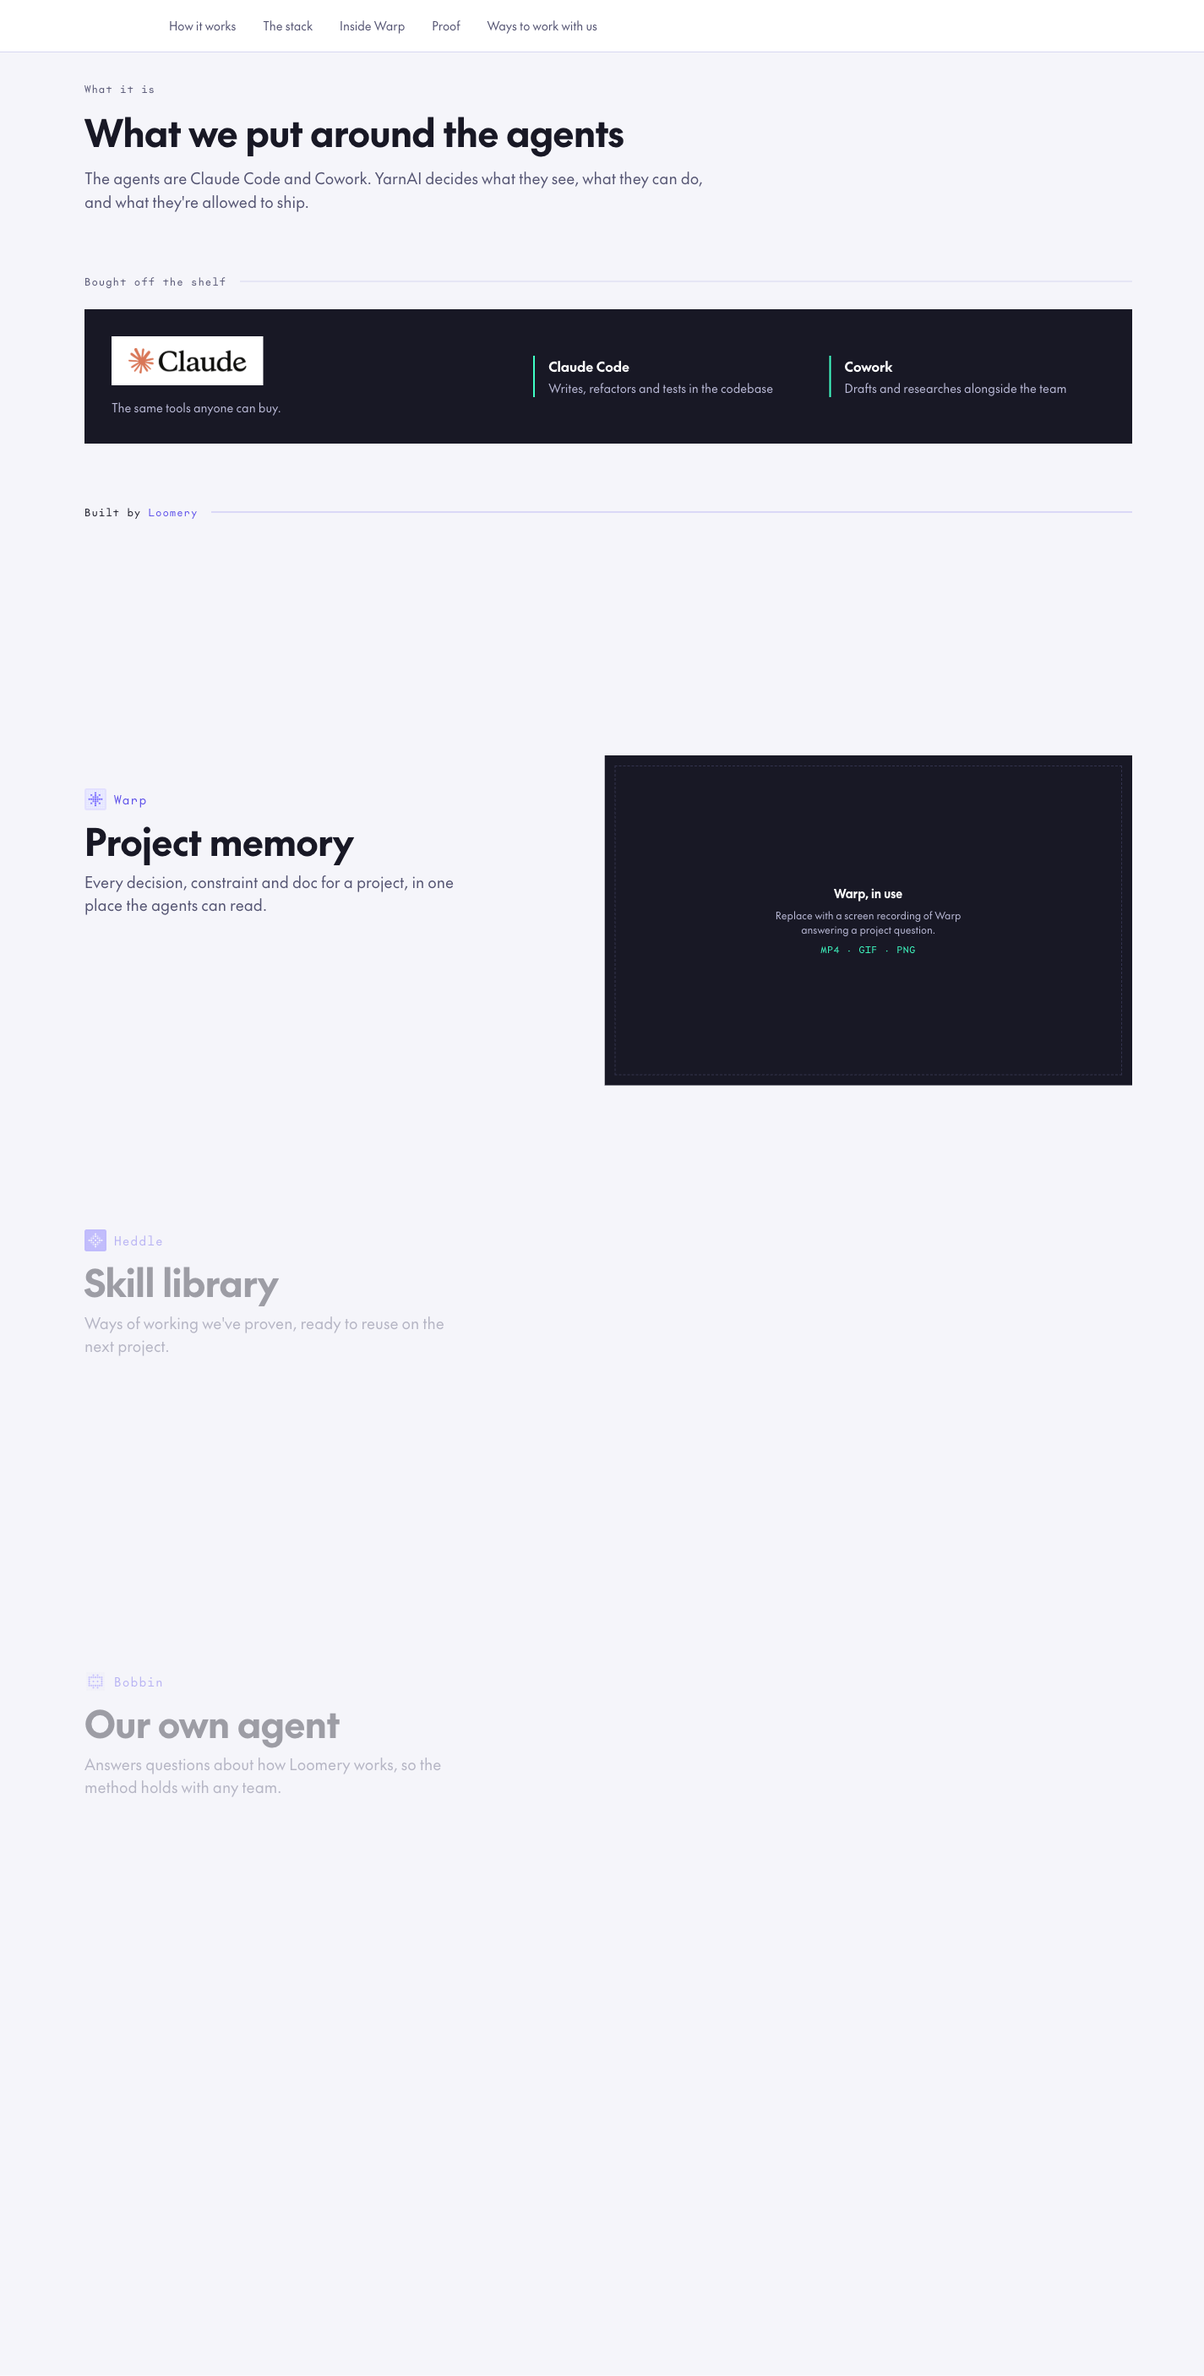
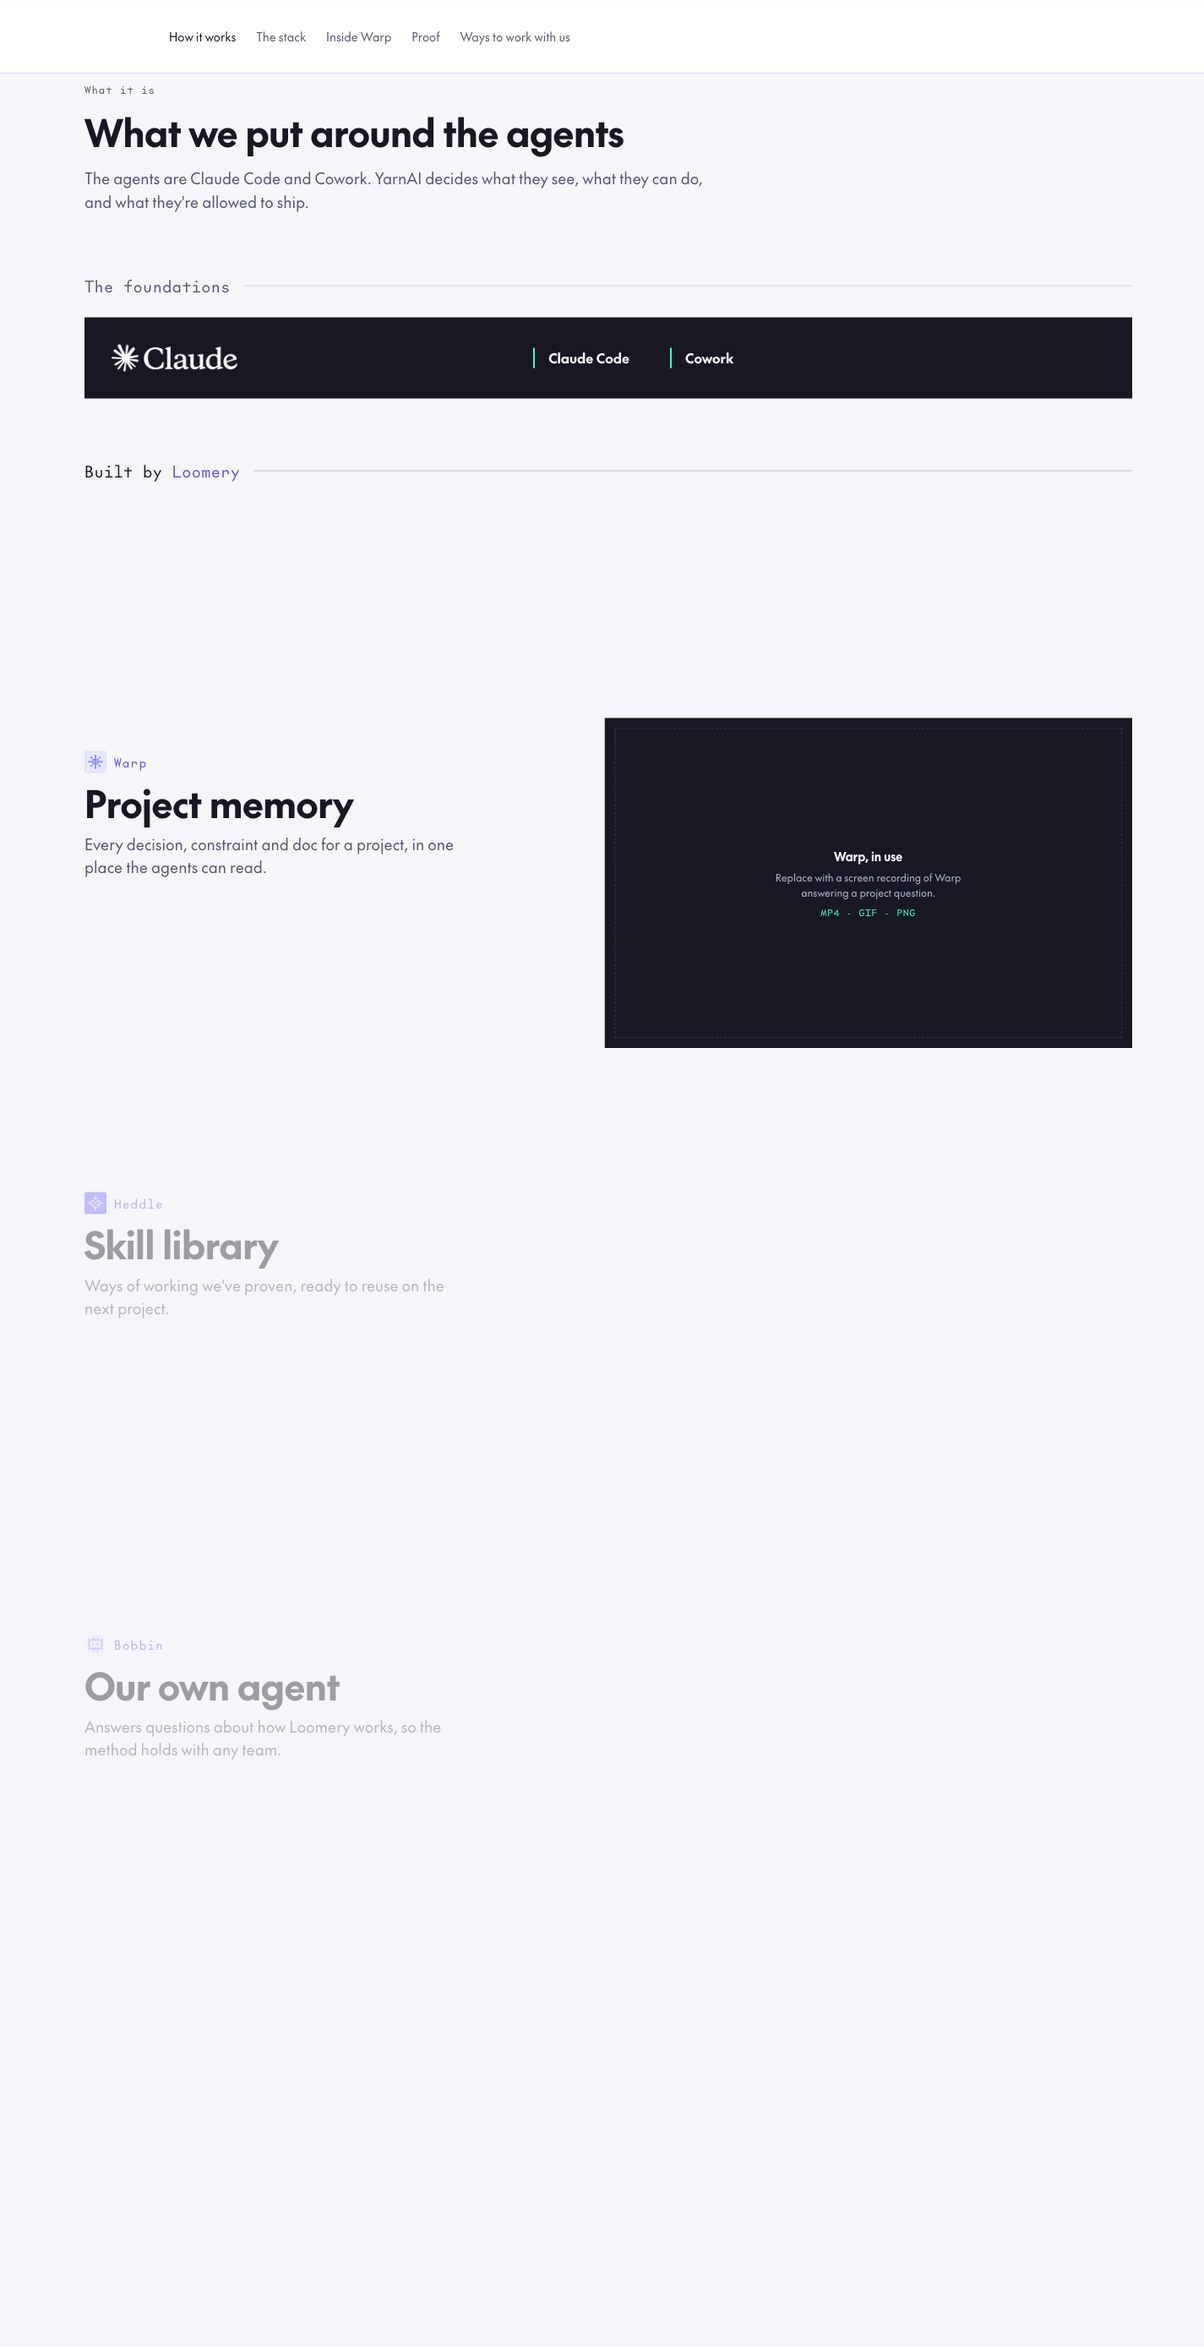
Agents on the trailing edge, paired lifecycle labels, nav alignment
Across the lifecycle
- The purple agent strip moved from the bottom of each stage to its
  trailing edge, with a sparkle in it. Along the bottom it read as a
  progress bar; on the trailing edge it reads as something added to the
  stage. 22px is reserved inside every bar so labels cannot run under
  it - "Discover" was being clipped.
- The live bar carries a label that tracks the highlighted step, pairing
  with "A normal project" on the reference strip above it.
- The stats sit under a hairline rule attached to the diagram rather
  than floating in whitespace below it.

Navigation
- The sticky sub-nav matches the main nav exactly: 85px via a --nav-h
  token so they cannot drift, same 14px links, same 24px gap.

What it is
- "Bought off the shelf" -> "The foundations", at 18px along with the
  other two band labels.
- The Claude wordmark is reversed out rather than sat on a light plate.
- Dropped the "same tools anyone can buy" note and both agent role
  descriptions.
- Trimmed the scroll runway above the first product; 12vh of empty space
  under the band label read as a mistake.

Elsewhere
- "What you get" out of all caps.
- Removed the team section's closing note.
- Corrected the type comment in tokens.css, which still claimed Jost was
  standing in for The Future.

diff --git a/styles.css b/styles.css
@@ -94,7 +94,8 @@ a { color: inherit; }
 /* ============================================================
    NAV — matches the live loomery.com header
    ============================================================ */
-.nav { display: flex; align-items: center; justify-content: space-between; padding: 20px var(--gutter); background: var(--surface-page); }
+.nav { display: flex; align-items: center; justify-content: space-between;
+  height: var(--nav-h); padding: 0 var(--gutter); background: var(--surface-page); }
 .nav__mark { font-size: 22px; font-weight: 600; letter-spacing: -0.02em; text-decoration: none; }
 .nav__right { display: flex; align-items: center; gap: var(--s-4); }
 .nav__link { font-size: var(--type-small); text-decoration: none; border-bottom: 1px solid currentColor; padding-bottom: 2px; }
@@ -119,7 +120,8 @@ a { color: inherit; }
    SUB-NAV — sticky
    ============================================================ */
 .subnav { position: sticky; top: 0; z-index: 40; background: var(--surface-page); border-bottom: 1px solid var(--border-subtle); }
-.subnav__inner { max-width: var(--content); margin: 0 auto; display: flex; gap: var(--s-5); padding: 20px var(--gutter); flex-wrap: wrap; }
+.subnav__inner { max-width: var(--content); margin: 0 auto; display: flex; align-items: center;
+  height: var(--nav-h); gap: var(--s-4); padding: 0 var(--gutter); flex-wrap: wrap; }
 .subnav__link { font-size: var(--type-small); text-decoration: none; color: var(--text-secondary); transition: color var(--dur-fast) var(--ease-out); }
 .subnav__link:hover, .subnav__link.is-current { color: var(--text-primary); }
 
@@ -228,12 +230,14 @@ a { color: inherit; }
    ============================================================ */
 .agents { display: grid; grid-template-columns: minmax(240px, 0.8fr) 1.2fr; gap: var(--s-6);
   background: var(--surface-inverse); color: var(--text-on-inverse); padding: var(--s-5); align-items: center; }
-.agents__brand { display: flex; flex-direction: column; gap: var(--s-3); }
-.agents__plate { background: var(--surface-page); padding: 14px 20px; display: inline-flex; align-self: flex-start; }
-.agents__plate img { width: auto; height: 30px; max-width: 170px; object-fit: contain; display: block; }
+.agents__brand { display: flex; align-items: center; }
+/* the wordmark ships black; reversed out it reads on the inverse panel */
+.agents__plate { display: inline-flex; align-self: flex-start; }
+.agents__plate img { width: auto; height: 32px; max-width: 180px; object-fit: contain;
+  display: block; filter: brightness(0) invert(1); }
 .agents__note { font-size: var(--type-small); color: var(--text-on-inverse-muted); }
-.agents__list { display: grid; grid-template-columns: 1fr 1fr; gap: var(--s-4); }
-.agent { border-left: 2px solid var(--state-positive); padding-left: var(--s-3); display: flex; flex-direction: column; gap: 4px; }
+.agents__list { display: flex; gap: var(--s-6); flex-wrap: wrap; align-items: center; }
+.agent { border-left: 2px solid var(--state-positive); padding-left: var(--s-3); }
 .agent__name { font-size: var(--type-base); font-weight: 600; }
 .agent__role { font-size: var(--type-small); color: var(--text-on-inverse-muted); }
 @media (max-width: 900px) { .agents, .agents__list { grid-template-columns: 1fr; } }
@@ -245,7 +249,7 @@ a { color: inherit; }
    step, each setting opacity on the three panes.
    ============================================================ */
 .pscroll { display: grid; grid-template-columns: 1fr 1.15fr; gap: var(--s-7); margin-top: var(--s-4); align-items: stretch; }
-.pscroll__steps { display: flex; flex-direction: column; padding: 12vh 0; }
+.pscroll__steps { display: flex; flex-direction: column; padding: 7vh 0 14vh; }
 .pstep { min-height: 58vh; justify-content: center; padding: var(--s-6) 0; display: flex; flex-direction: column; gap: 10px; max-width: 460px;
   opacity: 0.4; transition: opacity var(--dur-base) var(--ease-out); }
 .pscroll[data-product="warp"]   .pstep[data-product="warp"],
@@ -275,7 +279,7 @@ a { color: inherit; }
 }
 
 .stack-divider { margin: var(--s-7) 0 var(--s-4); display: flex; align-items: center; gap: var(--s-3); }
-.stack-divider__label { font-family: var(--font-mono); font-size: var(--type-label); letter-spacing: 0.08em; color: var(--text-secondary); white-space: nowrap; }
+.stack-divider__label { font-family: var(--font-mono); font-size: 18px; letter-spacing: 0.02em; color: var(--text-secondary); white-space: nowrap; }
 .stack-divider__rule { height: 1px; background: var(--border-subtle); flex: 1; }
 .stack-divider__label b { color: var(--text-product); font-weight: 500; }
 .stack-divider--ours .stack-divider__label { color: var(--text-primary); }
@@ -290,7 +294,7 @@ a { color: inherit; }
    WARP DEEP DIVE — the cycle
    ============================================================ */
 .cycle { margin-top: var(--s-6); display: flex; flex-direction: column; gap: 10px; }
-.cycle__label { font-family: var(--font-mono); font-size: var(--type-label); letter-spacing: 0.11em; text-transform: uppercase; color: var(--text-secondary); }
+.cycle__label { font-family: var(--font-mono); font-size: var(--type-label); letter-spacing: 0.08em; color: var(--text-secondary); }
 .chips { display: flex; gap: 8px; flex-wrap: wrap; }
 .chip { font-size: 13px; padding: 8px 14px; border: 1px solid var(--border-subtle); color: var(--text-secondary); }
 .cycle__connector { font-size: 13px; color: var(--text-secondary); padding: 6px 0; }
@@ -486,15 +490,20 @@ a { color: inherit; }
    bar. Overlaying the two failed: once the stages shrink, their original edges
    all pile up inside the Reclaimed block, miles from the bar they belong to.
    Stacked, the comparison is a straight read down the page. */
-.lref__label { font-family:var(--font-mono); font-size:11px; letter-spacing:.08em;
+.lref__label, .lc__now { font-family:var(--font-mono); font-size:11px; letter-spacing:.08em;
   color:var(--text-secondary); margin:0 0 6px; }
+.lc__now { color:var(--text-primary); margin-top:var(--s-3); }
 .lref { display:flex; gap:6px; height:14px; margin-bottom:10px; }
 .lref__b { background:var(--border-interactive); opacity:0.45; }
 .lbar { display:flex; gap:6px; height:74px; align-items:stretch; }
 .lb { position:relative; min-width:0; background:var(--surface-inverse); color:var(--text-on-inverse);
       display:flex; align-items:center; justify-content:center; overflow:hidden; }
 .lb__l { font-size:12px; white-space:nowrap; padding:0 6px; }
-.lb__a { position:absolute; left:0; right:0; bottom:0; height:16px; background:var(--product-500); }
+/* The purple is agents joining a stage. On the trailing edge it reads as
+   something added to the stage; along the bottom it read as a progress bar. */
+.lb__a { position:absolute; top:0; bottom:0; right:0; width:22px; background:var(--product-500);
+  display:flex; align-items:center; justify-content:center; }
+.lb__a svg { width:12px; height:12px; }
 .lb--gain { background:var(--surface-gain-tint); border:1px dashed var(--state-positive); color:var(--text-secondary); }
 .lrow-label { font-family:var(--font-mono); font-size:11px; letter-spacing:.11em; text-transform:uppercase; color:var(--text-secondary); margin:0 0 8px; }
 
@@ -519,15 +528,17 @@ a { color: inherit; }
 @keyframes tick-run { from { transform:scaleX(0); } to { transform:scaleX(1); } }
 
 /* bar widths per step */
+/* reserve the agent strip so labels never run under it */
+.lc .lb:not(.lb--gain) { padding-right:22px; }
 .lc .lb { width:var(--a); transition:width var(--dur-slow) var(--ease-in-out), opacity var(--dur-base) var(--ease-out); }
 .lc[data-step="1"] .lb--gain { opacity:0; }
 .lc[data-step="2"] .lb { width:var(--b); }
 .lc[data-step="3"] .lb { width:var(--c); }
 .lc[data-step="4"] .lb { width:var(--d); }
-.lc .lb__a { transform:translateY(100%); transition:transform var(--dur-base) var(--ease-out); }
+.lc .lb__a { transform:translateX(100%); transition:transform var(--dur-base) var(--ease-out); }
 .lc[data-step="2"] .lb--early .lb__a,
 .lc[data-step="3"] .lb--early .lb__a, .lc[data-step="3"] .lb--build .lb__a,
-.lc[data-step="4"] .lb__a { transform:translateY(0); }
+.lc[data-step="4"] .lb__a { transform:translateX(0); }
 
 /* nobody asked for this transition, so it has to explain itself: lead with
    Build, the bottleneck, and let the rest follow as consequence */
@@ -544,11 +555,12 @@ a { color: inherit; }
 .lc.is-rewind .lb, .lc.is-rewind .lb__a { transition-delay:0ms; transition-duration:1150ms; }
 
 /* the numbers are the payoff, so they sit under the diagram with real air */
-.lc__readout { margin-top:var(--s-7); gap:var(--s-7); }
+.lc__readout { margin-top:var(--s-5); padding-top:var(--s-4);
+  border-top:1px solid var(--border-subtle); gap:var(--s-7); }
 .lc__readout .ba-metric__value { font-size:46px; letter-spacing:-0.02em; }
 .lc__readout .ba-metric__label { font-size:var(--type-small); margin-top:4px; }
 .lc__readout .ba-metric { min-width:180px; }
-.lc__cap { margin-top:var(--s-4); font-size:14px; color:var(--text-secondary); min-height:44px; max-width:720px;
+.lc__cap { margin-top:var(--s-3); font-size:14px; color:var(--text-secondary); min-height:44px; max-width:720px;
   transition:opacity 280ms var(--ease-out); }
 .lc__cap.is-swapping { opacity:0; transition-duration:150ms; }
 .lc__cap b { color:var(--text-primary); font-weight:600; }

diff --git a/index.html b/index.html
@@ -147,13 +147,14 @@
       <div class="lbar-wrap">
         <p class="lref__label">A normal project</p>
         <div class="lref" aria-hidden="true"><span class="lref__b" style="width:8.87%"></span><span class="lref__b" style="width:13.71%"></span><span class="lref__b" style="width:41.94%"></span><span class="lref__b" style="width:12.1%"></span><span class="lref__b" style="width:9.68%"></span><span class="lref__b" style="width:10.48%"></span></div>
+        <p class="lc__now" id="cycleNow">A normal project</p>
         <div class="lbar">
-          <div class="lb lb--early" style="--a:8.87%;--b:6.61%;--c:6.61%;--d:6.61%"><span class="lb__l">Discover</span><span class="lb__a"></span></div>
-          <div class="lb lb--early" style="--a:13.71%;--b:7.26%;--c:7.26%;--d:7.26%"><span class="lb__l">Design</span><span class="lb__a"></span></div>
-          <div class="lb lb--build" style="--a:41.94%;--b:41.94%;--c:11.29%;--d:11.29%"><span class="lb__l">Build</span><span class="lb__a"></span></div>
-          <div class="lb" style="--a:12.1%;--b:12.1%;--c:12.1%;--d:8.47%"><span class="lb__l">Test</span><span class="lb__a"></span></div>
-          <div class="lb" style="--a:9.68%;--b:9.68%;--c:9.68%;--d:7.74%"><span class="lb__l">Ship</span><span class="lb__a"></span></div>
-          <div class="lb" style="--a:10.48%;--b:10.48%;--c:10.48%;--d:8.06%"><span class="lb__l">Learn</span><span class="lb__a"></span></div>
+          <div class="lb lb--early" style="--a:8.87%;--b:6.61%;--c:6.61%;--d:6.61%"><span class="lb__l">Discover</span><span class="lb__a"><svg viewBox="0 0 12 12" aria-hidden="true"><path d="M6 0c.5 3.3 2.7 5.5 6 6-3.3.5-5.5 2.7-6 6-.5-3.3-2.7-5.5-6-6 3.3-.5 5.5-2.7 6-6Z" fill="#fff"/></svg></span></div>
+          <div class="lb lb--early" style="--a:13.71%;--b:7.26%;--c:7.26%;--d:7.26%"><span class="lb__l">Design</span><span class="lb__a"><svg viewBox="0 0 12 12" aria-hidden="true"><path d="M6 0c.5 3.3 2.7 5.5 6 6-3.3.5-5.5 2.7-6 6-.5-3.3-2.7-5.5-6-6 3.3-.5 5.5-2.7 6-6Z" fill="#fff"/></svg></span></div>
+          <div class="lb lb--build" style="--a:41.94%;--b:41.94%;--c:11.29%;--d:11.29%"><span class="lb__l">Build</span><span class="lb__a"><svg viewBox="0 0 12 12" aria-hidden="true"><path d="M6 0c.5 3.3 2.7 5.5 6 6-3.3.5-5.5 2.7-6 6-.5-3.3-2.7-5.5-6-6 3.3-.5 5.5-2.7 6-6Z" fill="#fff"/></svg></span></div>
+          <div class="lb" style="--a:12.1%;--b:12.1%;--c:12.1%;--d:8.47%"><span class="lb__l">Test</span><span class="lb__a"><svg viewBox="0 0 12 12" aria-hidden="true"><path d="M6 0c.5 3.3 2.7 5.5 6 6-3.3.5-5.5 2.7-6 6-.5-3.3-2.7-5.5-6-6 3.3-.5 5.5-2.7 6-6Z" fill="#fff"/></svg></span></div>
+          <div class="lb" style="--a:9.68%;--b:9.68%;--c:9.68%;--d:7.74%"><span class="lb__l">Ship</span><span class="lb__a"><svg viewBox="0 0 12 12" aria-hidden="true"><path d="M6 0c.5 3.3 2.7 5.5 6 6-3.3.5-5.5 2.7-6 6-.5-3.3-2.7-5.5-6-6 3.3-.5 5.5-2.7 6-6Z" fill="#fff"/></svg></span></div>
+          <div class="lb" style="--a:10.48%;--b:10.48%;--c:10.48%;--d:8.06%"><span class="lb__l">Learn</span><span class="lb__a"><svg viewBox="0 0 12 12" aria-hidden="true"><path d="M6 0c.5 3.3 2.7 5.5 6 6-3.3.5-5.5 2.7-6 6-.5-3.3-2.7-5.5-6-6 3.3-.5 5.5-2.7 6-6Z" fill="#fff"/></svg></span></div>
         <div class="lb lb--gain" style="--a:0%;--b:8.7%;--c:39%;--d:46.69%"><span class="lb__l">Reclaimed</span></div>
         </div>
       </div>
@@ -176,22 +177,19 @@
     <p class="lead reveal" data-d="2">The agents are Claude Code and Cowork. YarnAI decides what they see, what they can do, and what they're allowed to ship.</p>
 
     <div class="stack-divider reveal">
-      <span class="stack-divider__label">Bought off the shelf</span>
+      <span class="stack-divider__label">The foundations</span>
       <span class="stack-divider__rule"></span>
     </div>
     <div class="agents reveal">
       <div class="agents__brand">
         <span class="agents__plate"><img src="images/logo-claude.png" alt="Claude" width="1280" height="275"></span>
-        <span class="agents__note">The same tools anyone can buy.</span>
       </div>
       <div class="agents__list">
         <div class="agent">
           <span class="agent__name">Claude Code</span>
-          <span class="agent__role">Writes, refactors and tests in the codebase</span>
         </div>
         <div class="agent">
           <span class="agent__name">Cowork</span>
-          <span class="agent__role">Drafts and researches alongside the team</span>
         </div>
       </div>
     </div>
@@ -405,7 +403,6 @@
         <div class="role role--agents" style="--delay:340ms"><span class="role__tag">Added</span><span class="role__name">Agent fleet · 24/7</span><span class="role__note">drafts, never decides</span></div>
         <div class="role role--counsel" style="--delay:400ms"><span class="role__tag">On call</span><span class="role__name">Product counsel</span><span class="role__note">specialist craft, brought in</span></div>
       </div>
-      <p class="tm-note">People fade back rather than disappear — the work moves to agents, the two makers stay accountable.</p>
     </div>
 
   </div>

diff --git a/motion.js b/motion.js
@@ -161,6 +161,7 @@
 
   var buttons = cycle.querySelectorAll('.lc__step');
   var cap     = document.getElementById('cycleCap');
+  var now     = document.getElementById('cycleNow');
   var readout = cycle.querySelector('.lc__readout');
   var metrics = readout ? readout.querySelectorAll('[data-steps]') : [];
   var count   = window.yarnCountTo;
@@ -187,6 +188,12 @@
       b.setAttribute('aria-current', String(Number(b.dataset.go) === n));
     });
     setCap(CAPS[n - 1]);
+    /* the live bar is labelled with the step it is showing, so it pairs with
+       the "A normal project" label on the reference strip above it */
+    if (now) {
+      var btn = cycle.querySelector('.lc__step[data-go="' + n + '"]');
+      if (btn) now.textContent = btn.textContent.replace(/^\s*\d+\.\s*/, '').trim();
+    }
     if (readout) readout.classList.toggle('is-after', n > 1);
     Array.prototype.forEach.call(metrics, function (m) {
       var to = Number(m.dataset.steps.split(',')[n - 1]);

diff --git a/tokens.css b/tokens.css
@@ -76,10 +76,13 @@
   --focus-on-light:          #5b4ee9;
   --focus-on-dark:           #3fffc5;
 
+  /* the sticky sub-nav matches the main nav exactly */
+  --nav-h: 85px;
+
   /* --- type ---
-     The Future is the real face; Jost is the documented stand-in
-     and loads from Google Fonts, which Webflow supports natively.
-     Swap the first name in each stack when the licence lands. */
+     The Future loads from Loomery's Webflow CDN — see the @font-face
+     block at the top of this file. Jost and IBM Plex Mono stay in the
+     stacks as an offline fallback. */
   --font-sans: "The Future", "Jost", system-ui, -apple-system, sans-serif;
   --font-mono: "The Future Mono", "IBM Plex Mono", ui-monospace, monospace;
 
